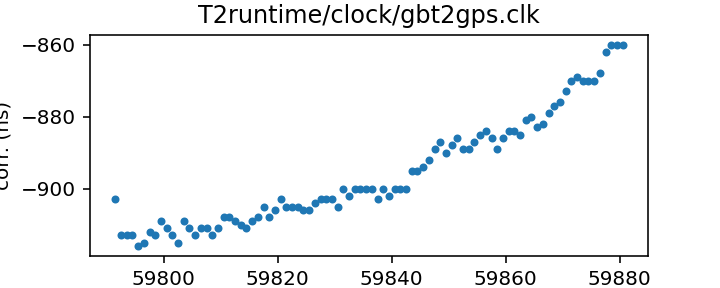
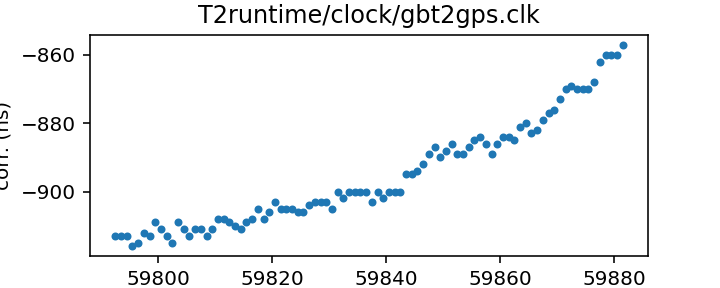
Routine gh-pages update from Github action Sun Oct 30 20:36:19 UTC 2022

diff --git a/status.md b/status.md
@@ -13,17 +13,17 @@ name of each clock file links to a page with more details.
 
 | Name | File | Corrections start | Corrections end | Last check date | Last check result 
 |:--- |:--- | --- | --- | --- |:--- 
-| [GPS to UTC](T2runtime/clock/gps2utc.clk.html) | `T2runtime/clock/gps2utc.clk` | 1993-01-01 MJD 48988.0 | 2022-09-27 MJD 59849.0 | 2022-10-29 | Unchanged 
-| [GPS to UTC (Combined Clock)](T2runtime/clock/gps2utc_cc.clk.html) | `T2runtime/clock/gps2utc_cc.clk` | 1993-01-01 MJD 48988.0 | 2022-09-27 MJD 59849.0 | 2022-10-29 | Unchanged 
-| [GPS to UTC (Corrected)](T2runtime/clock/gps2utc_c0p.clk.html) | `T2runtime/clock/gps2utc_c0p.clk` | 2010-12-29 MJD 55559.0 | 2022-09-27 MJD 59849.0 | 2022-10-29 | Unchanged 
-| [GBT](tempo/clock/time_gbt.dat.html) | `tempo/clock/time_gbt.dat` | 2000-12-31 MJD 51909.5 | 2022-10-28 MJD 59880.5 | 2022-10-29 | Updated 
-| [GBT (TEMPO2 converted from TEMPO)](T2runtime/clock/gbt2gps.clk.html) | `T2runtime/clock/gbt2gps.clk` | 2000-12-31 MJD 51909.5 | 2022-10-28 MJD 59880.5 | 2022-10-29 | Updated 
+| [GPS to UTC](T2runtime/clock/gps2utc.clk.html) | `T2runtime/clock/gps2utc.clk` | 1993-01-01 MJD 48988.0 | 2022-09-27 MJD 59849.0 | 2022-10-30 | Unchanged 
+| [GPS to UTC (Combined Clock)](T2runtime/clock/gps2utc_cc.clk.html) | `T2runtime/clock/gps2utc_cc.clk` | 1993-01-01 MJD 48988.0 | 2022-09-27 MJD 59849.0 | 2022-10-30 | Unchanged 
+| [GPS to UTC (Corrected)](T2runtime/clock/gps2utc_c0p.clk.html) | `T2runtime/clock/gps2utc_c0p.clk` | 2010-12-29 MJD 55559.0 | 2022-09-27 MJD 59849.0 | 2022-10-30 | Unchanged 
+| [GBT](tempo/clock/time_gbt.dat.html) | `tempo/clock/time_gbt.dat` | 2000-12-31 MJD 51909.5 | 2022-10-29 MJD 59881.5 | 2022-10-30 | Updated 
+| [GBT (TEMPO2 converted from TEMPO)](T2runtime/clock/gbt2gps.clk.html) | `T2runtime/clock/gbt2gps.clk` | 2000-12-31 MJD 51909.5 | 2022-10-29 MJD 59881.5 | 2022-10-30 | Updated 
 | [Jodrell Bank](T2runtime/clock/jb2gps.clk.html) | `T2runtime/clock/jb2gps.clk` | 2006-10-13 MJD 54021.4 | 2021-11-03 MJD 59521.0 | 2022-10-26 | Unchanged 
 | [Jodrell Bank Roach](T2runtime/clock/jbroach2jb.clk.html) | `T2runtime/clock/jbroach2jb.clk` | 2006-10-13 MJD 54021.4 | 2018-03-20 MJD 58197.6 | 2022-10-26 | Unchanged 
 | [Jodrell Bank DFB](T2runtime/clock/jbdfb2jb.clk.html) | `T2runtime/clock/jbdfb2jb.clk` | 2006-10-13 MJD 54021.4 | 2017-05-11 MJD 57884.0 | 2022-10-26 | Unchanged 
 | [Meerkat (observatory)](T2runtime/clock/mk2utc_observatory.clk.html) | `T2runtime/clock/mk2utc_observatory.clk` | 2019-01-01 MJD 58484.0 | 2022-10-05 MJD 59858.0 | 2022-10-24 | Unchanged 
-| [Leap seconds](tempo/clock/leap.sec.html) | `tempo/clock/leap.sec` | 1972-07-01 MJD 41499.0 | 2017-01-01 MJD 57754.0 | 2022-10-29 | Unchanged 
-| [UT1 table](tempo/clock/ut1.dat.html) | `tempo/clock/ut1.dat` | 1973-01-02 MJD 41684.0 | 2023-11-04 MJD 60252.0 | 2022-10-29 | Unchanged 
+| [Leap seconds](tempo/clock/leap.sec.html) | `tempo/clock/leap.sec` | 1972-07-01 MJD 41499.0 | 2017-01-01 MJD 57754.0 | 2022-10-30 | Unchanged 
+| [UT1 table](tempo/clock/ut1.dat.html) | `tempo/clock/ut1.dat` | 1973-01-02 MJD 41684.0 | 2023-11-04 MJD 60252.0 | 2022-10-30 | Unchanged 
 
 
 

diff --git a/T2runtime/clock/gbt2gps.clk.md b/T2runtime/clock/gbt2gps.clk.md
@@ -23,14 +23,13 @@ If questions arise about the conversion, contact Anne Archibald
 | Format | tempo2 |
 | Bogus last correction | False |
 | Clock file start | 2000-12-31 MJD 51909.5 |
-| Clock file end | 2022-10-28 MJD 59880.5 |
+| Clock file end | 2022-10-29 MJD 59881.5 |
 | Update interval (days) | 1 |
-| Last update attempt | 2022-10-29 |
+| Last update attempt | 2022-10-30 |
 | Last update result | Updated |
 
 Log entries from the last few update attempts:
 ```
-2022-10-20 20:43:21.653 - Updated
 2022-10-21 20:41:58.368 - Updated
 2022-10-22 20:41:22.968 - Updated
 2022-10-23 20:41:35.993 - Updated
@@ -40,12 +39,13 @@ Log entries from the last few update attempts:
 2022-10-27 20:36:40.013 - Updated
 2022-10-28 20:37:47.427 - Updated
 2022-10-29 20:35:15.179 - Updated
+2022-10-30 20:35:46.191 - Updated
 ```
 [Full log](https://raw.githubusercontent.com/ipta/pulsar-clock-corrections/main/log/T2runtime/clock/gbt2gps.clk.log)
 
 Leading comments from clock file:
 
-    # This file was automatically converted from tempo/clock/time_gbt.dat on 2022-10-29 20:35:15.101
+    # This file was automatically converted from tempo/clock/time_gbt.dat on 2022-10-30 20:35:46.105
 
 
 

diff --git a/tempo/clock/time_gbt.dat.md b/tempo/clock/time_gbt.dat.md
@@ -18,14 +18,13 @@ If questions arise, contact Ryan S. Lynch <rlynch@nrao.edu>.
 | Format | tempo |
 | Bogus last correction | False |
 | Clock file start | 2000-12-31 MJD 51909.5 |
-| Clock file end | 2022-10-28 MJD 59880.5 |
+| Clock file end | 2022-10-29 MJD 59881.5 |
 | Update interval (days) | 1 |
-| Last update attempt | 2022-10-29 |
+| Last update attempt | 2022-10-30 |
 | Last update result | Updated |
 
 Log entries from the last few update attempts:
 ```
-2022-10-20 20:43:21.563 - Updated
 2022-10-21 20:41:58.289 - Updated
 2022-10-22 20:41:22.887 - Updated
 2022-10-23 20:41:35.922 - Updated
@@ -35,6 +34,7 @@ Log entries from the last few update attempts:
 2022-10-27 20:36:39.939 - Updated
 2022-10-28 20:37:47.355 - Updated
 2022-10-29 20:35:15.099 - Updated
+2022-10-30 20:35:46.102 - Updated
 ```
 [Full log](https://raw.githubusercontent.com/ipta/pulsar-clock-corrections/main/log/tempo/clock/time_gbt.dat.log)
 

diff --git a/T2runtime/clock/gps2utc_c0p.clk.md b/T2runtime/clock/gps2utc_c0p.clk.md
@@ -30,12 +30,11 @@ about the BIPM's published corrections, contact <tai@bipm.org>.
 | Clock file start | 2010-12-29 MJD 55559.0 |
 | Clock file end | 2022-09-27 MJD 59849.0 |
 | Update interval (days) | 1 |
-| Last update attempt | 2022-10-29 |
+| Last update attempt | 2022-10-30 |
 | Last update result | Unchanged |
 
 Log entries from the last few update attempts:
 ```
-2022-10-20 20:43:20.495 - Unchanged
 2022-10-21 20:41:57.496 - Unchanged
 2022-10-22 20:41:22.200 - Unchanged
 2022-10-23 20:41:35.497 - Unchanged
@@ -45,6 +44,7 @@ Log entries from the last few update attempts:
 2022-10-27 20:36:39.672 - Unchanged
 2022-10-28 20:37:46.957 - Unchanged
 2022-10-29 20:35:14.224 - Unchanged
+2022-10-30 20:35:45.032 - Unchanged
 ```
 [Full log](https://raw.githubusercontent.com/ipta/pulsar-clock-corrections/main/log/T2runtime/clock/gps2utc_c0p.clk.log)
 

diff --git a/T2runtime/clock/gps2utc_cc.clk.md b/T2runtime/clock/gps2utc_cc.clk.md
@@ -29,12 +29,11 @@ about the BIPM's published corrections, contact <tai@bipm.org>.
 | Clock file start | 1993-01-01 MJD 48988.0 |
 | Clock file end | 2022-09-27 MJD 59849.0 |
 | Update interval (days) | 1 |
-| Last update attempt | 2022-10-29 |
+| Last update attempt | 2022-10-30 |
 | Last update result | Unchanged |
 
 Log entries from the last few update attempts:
 ```
-2022-10-20 20:43:20.482 - Unchanged
 2022-10-21 20:41:57.485 - Unchanged
 2022-10-22 20:41:22.187 - Unchanged
 2022-10-23 20:41:35.485 - Unchanged
@@ -44,6 +43,7 @@ Log entries from the last few update attempts:
 2022-10-27 20:36:39.660 - Unchanged
 2022-10-28 20:37:46.945 - Unchanged
 2022-10-29 20:35:14.214 - Unchanged
+2022-10-30 20:35:45.019 - Unchanged
 ```
 [Full log](https://raw.githubusercontent.com/ipta/pulsar-clock-corrections/main/log/T2runtime/clock/gps2utc_cc.clk.log)
 

diff --git a/T2runtime/clock/gps2utc.clk.md b/T2runtime/clock/gps2utc.clk.md
@@ -32,12 +32,11 @@ about the BIPM's published corrections, contact <tai@bipm.org>.
 | Clock file start | 1993-01-01 MJD 48988.0 |
 | Clock file end | 2022-09-27 MJD 59849.0 |
 | Update interval (days) | 1 |
-| Last update attempt | 2022-10-29 |
+| Last update attempt | 2022-10-30 |
 | Last update result | Unchanged |
 
 Log entries from the last few update attempts:
 ```
-2022-10-20 20:43:20.443 - Unchanged
 2022-10-21 20:41:57.452 - Unchanged
 2022-10-22 20:41:22.149 - Unchanged
 2022-10-23 20:41:35.452 - Unchanged
@@ -47,6 +46,7 @@ Log entries from the last few update attempts:
 2022-10-27 20:36:39.625 - Unchanged
 2022-10-28 20:37:46.909 - Unchanged
 2022-10-29 20:35:14.183 - Unchanged
+2022-10-30 20:35:44.979 - Unchanged
 ```
 [Full log](https://raw.githubusercontent.com/ipta/pulsar-clock-corrections/main/log/T2runtime/clock/gps2utc.clk.log)
 

diff --git a/tempo/clock/leap.sec.md b/tempo/clock/leap.sec.md
@@ -21,12 +21,11 @@ If there are any questions, contact Anne Archibald
 | File start | 1972-07-01 MJD 41499.0 |
 | File end | 2017-01-01 MJD 57754.0 |
 | Update interval (days) | 0 |
-| Last update attempt | 2022-10-29 |
+| Last update attempt | 2022-10-30 |
 | Last update result | Unchanged |
 
 Log entries from the last few update attempts:
 ```
-2022-10-20 20:43:24.465 - Unchanged
 2022-10-21 20:41:58.402 - Unchanged
 2022-10-22 20:41:23.016 - Unchanged
 2022-10-23 20:41:36.030 - Unchanged
@@ -36,5 +35,6 @@ Log entries from the last few update attempts:
 2022-10-27 20:36:43.142 - Unchanged
 2022-10-28 20:37:47.465 - Unchanged
 2022-10-29 20:35:15.221 - Unchanged
+2022-10-30 20:35:46.243 - Unchanged
 ```
 [Full log](https://raw.githubusercontent.com/ipta/pulsar-clock-corrections/main/log/tempo/clock/leap.sec.log)

diff --git a/tempo/clock/ut1.dat.md b/tempo/clock/ut1.dat.md
@@ -30,12 +30,11 @@ If there are any questions, contact Anne Archibald
 | File start | 1973-01-02 MJD 41684.0 |
 | File end | 2023-11-04 MJD 60252.0 |
 | Update interval (days) | 0 |
-| Last update attempt | 2022-10-29 |
+| Last update attempt | 2022-10-30 |
 | Last update result | Unchanged |
 
 Log entries from the last few update attempts:
 ```
-2022-10-20 20:43:37.387 - Updated
 2022-10-21 20:42:08.245 - Unchanged
 2022-10-22 20:41:32.891 - Unchanged
 2022-10-23 20:41:44.121 - Unchanged
@@ -45,5 +44,6 @@ Log entries from the last few update attempts:
 2022-10-27 20:36:50.659 - Updated
 2022-10-28 20:37:55.490 - Unchanged
 2022-10-29 20:35:27.827 - Unchanged
+2022-10-30 20:35:59.228 - Unchanged
 ```
 [Full log](https://raw.githubusercontent.com/ipta/pulsar-clock-corrections/main/log/tempo/clock/ut1.dat.log)
